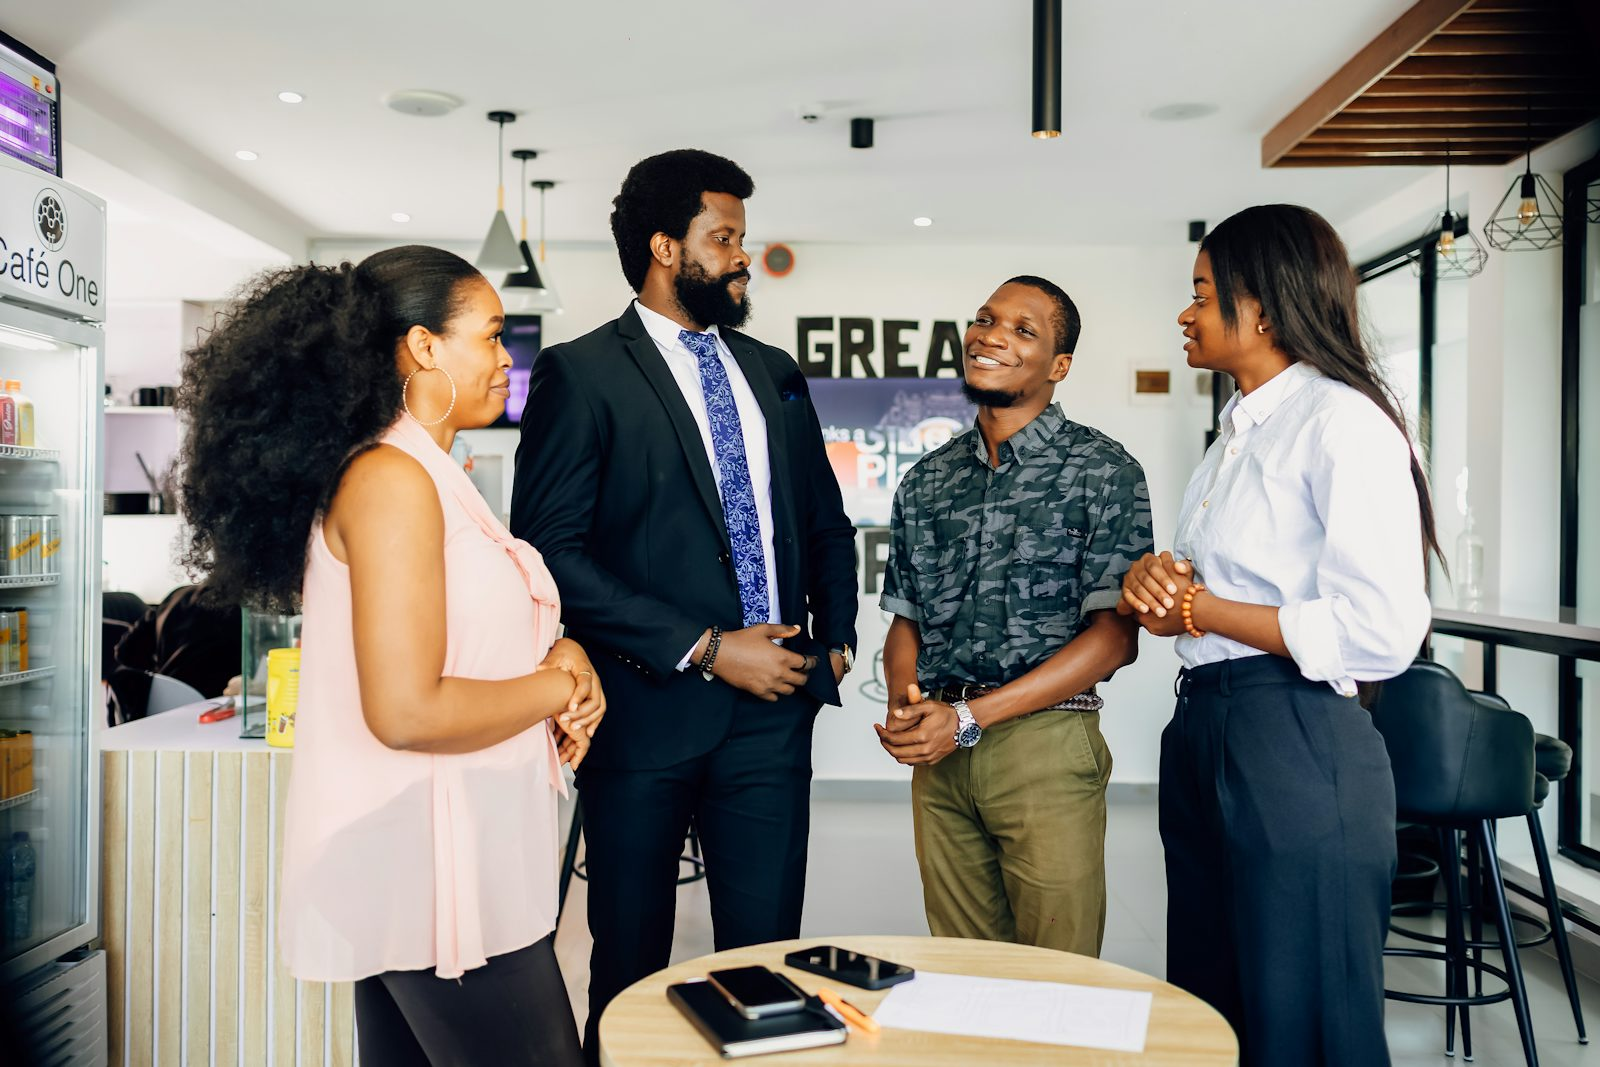
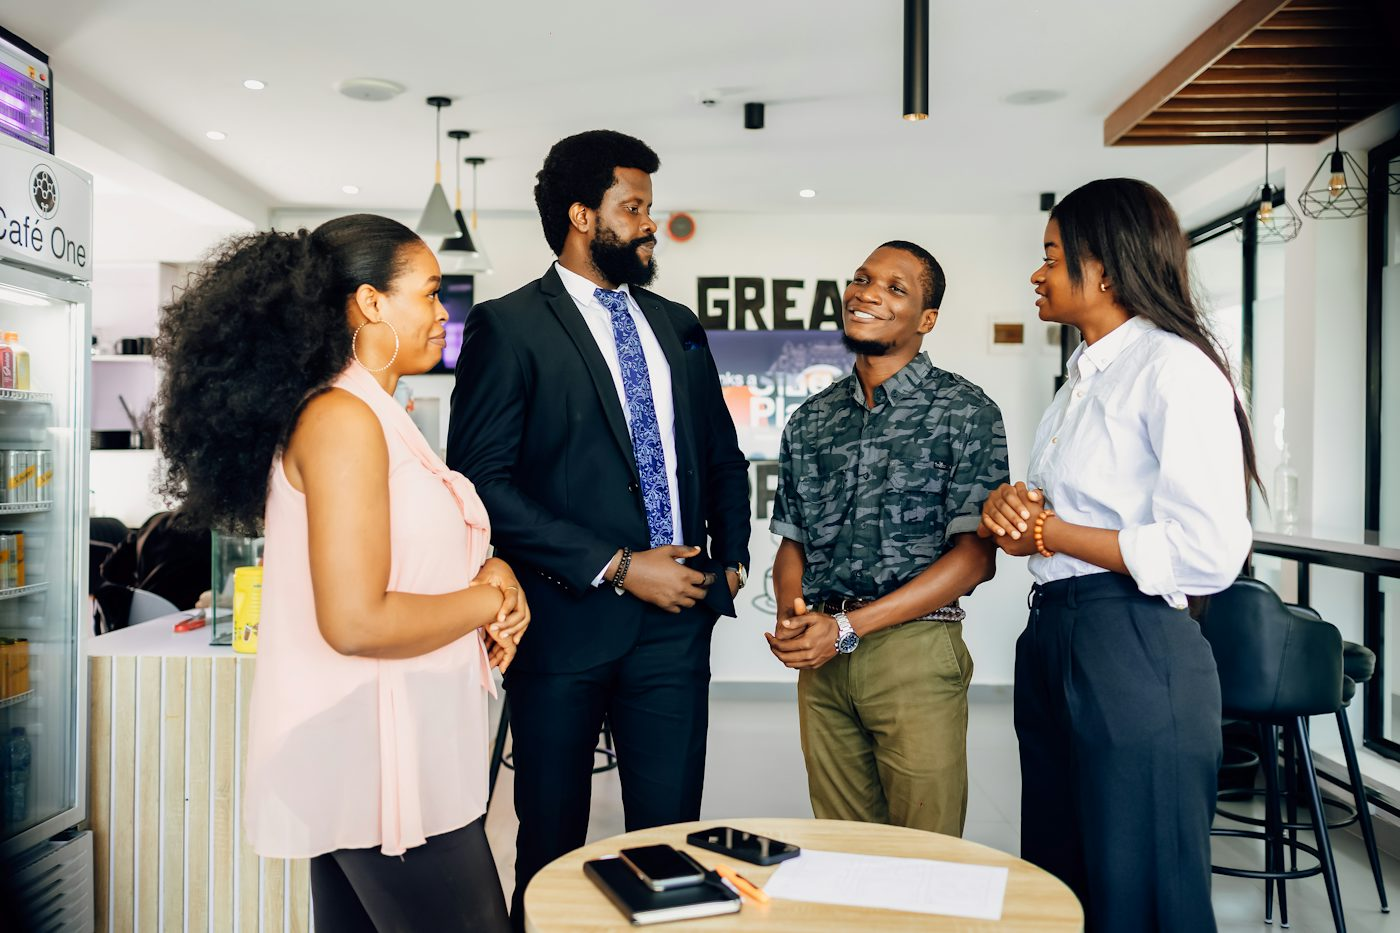
Shrink photos, fix crops, and vary placement per page
The first pass cropped landscape photos into extreme shapes (hero at 4:5
portrait, bands at 21:8) and ran the bands edge-to-edge. That showed only
a narrow slice of each photo blown up large, which read as stretched and
oversized. Every band also sat in the same spot on every page.

Crops now stay close to the source frame: 3:2 for the hero and all side
photos, 5:2 for bands. Almost no zoom, so composition survives.

Sizes: side photos take ~30% of the row (about 310px) instead of half the
width; bands are capped at 900px and sit inside the page margins rather
than spanning the viewport, which on a wide monitor is roughly a five-fold
reduction in area.

Placement now differs per page rather than repeating mid-page:
- Home     hero right (prominent), quote photo left, band, checklist right
- About    section 01 photo right, band after section 02
- Services band after section 01, section 03 photo left
- Contact  single band

Adds review-session.jpg and about-band.jpg (both verified Unsplash License,
not Unsplash+) to give each page a distinct arrangement. All files
re-exported at the smaller display sizes, trimming the photo payload from
1481 KB to 1253 KB; the homepage now loads 595 KB of images, nearly all of
it lazily.

diff --git a/styles.css b/styles.css
@@ -280,54 +280,50 @@ footer{padding-block:36px;}
 .foot-fine{font-family:var(--body); font-size:12px; color:var(--ink-faint); margin-top:18px;}
 
 /* ---------- Photography ----------
-   Every photo slot is sized by CSS (aspect-ratio + object-fit:cover), so a
-   replacement image can be any shape and will still crop to fit. Nudge a crop
-   with style="object-position: center 30%" on the individual <img>. */
+   Slots are sized by CSS (aspect-ratio + object-fit:cover), so a replacement
+   image can be any shape and still crops to fit. Ratios stay close to a normal
+   camera frame (3:2) so nothing is heavily zoomed. Nudge a crop with
+   style="object-position: center 30%" on the individual <img>. */
 .photo{
   width:100%;
   object-fit:cover;
+  border:1px solid var(--rule);
   border-radius:2px;
   background:var(--paper-raised);
 }
 
-/* Hero: copy beside a portrait photo, with an offset crimson frame */
-.hero-grid{display:grid; grid-template-columns:1fr; gap:38px; align-items:center;}
-@media (min-width:900px){ .hero-grid{grid-template-columns:1.05fr .95fr; gap:60px;} }
+/* Hero: photo beside the headline, natural landscape proportions */
+.hero-grid{display:grid; grid-template-columns:1fr; gap:34px; align-items:center;}
+@media (min-width:900px){ .hero-grid{grid-template-columns:1.1fr .9fr; gap:52px;} }
 .hero-figure{margin:0; position:relative; isolation:isolate;}
-.hero-figure .photo{
-  aspect-ratio:16/11; position:relative; z-index:1;
-  border:1px solid var(--rule);
-}
-@media (min-width:900px){ .hero-figure .photo{aspect-ratio:4/5;} }
+.hero-figure .photo{aspect-ratio:3/2; position:relative; z-index:1;}
 .hero-figure::after{
-  content:""; position:absolute; z-index:0; inset:14px -14px -14px 14px;
+  content:""; position:absolute; z-index:0; inset:12px -12px -12px 12px;
   border:1px solid var(--crimson); border-radius:2px;
 }
 
-/* Full-bleed photo band used as a section break */
-.band{margin:0; border-bottom:1px solid var(--rule);}
-.band .photo{aspect-ratio:16/9; border-radius:0;}
-@media (min-width:860px){ .band .photo{aspect-ratio:21/8;} }
+/* Small accent photo beside a block of copy (~30% of the row) */
+.split{display:grid; grid-template-columns:1fr; gap:26px; align-items:center;}
+.split .checklist{grid-template-columns:1fr;}
+.split-figure{margin:0;}
+.split-figure .photo{aspect-ratio:3/2;}
+@media (min-width:860px){
+  .split{grid-template-columns:2.2fr 1fr; gap:44px;}
+  .split--media-first{grid-template-columns:1fr 2.2fr;}
+  .split--media-first .split-figure{order:-1;}
+}
+
+/* One contained band per page, inset from the margins - never edge to edge */
+.band-section{padding-block:40px; border-bottom:1px solid var(--rule);}
+@media (min-width:860px){ .band-section{padding-block:56px;} }
+.band{margin:0; max-width:900px; margin-inline:auto;}
+.band .photo{aspect-ratio:5/2;}
 .band-note{
-  max-width:1120px; margin-inline:auto; padding:14px 20px 16px;
+  padding-top:12px;
   font-family:var(--body); font-size:12px; letter-spacing:.09em;
   text-transform:uppercase; color:var(--ink-faint);
 }
-@media (min-width:640px){ .band-note{padding-inline:40px;} }
 .band-note .note{margin-right:9px;}
-
-/* Contained variant, for sitting inside a .wrap */
-.band--inset{border-bottom:none;}
-.band--inset .photo{aspect-ratio:16/7; border:1px solid var(--rule); border-radius:2px;}
-.band--inset .band-note{padding-inline:0; max-width:none;}
-
-/* Photo beside a block of copy */
-.split{display:grid; grid-template-columns:1fr; gap:30px; align-items:center;}
-.split .checklist{grid-template-columns:1fr;}
-@media (min-width:860px){ .split{grid-template-columns:1fr 1fr; gap:52px;} }
-.split-figure{margin:0;}
-.split-figure .photo{aspect-ratio:4/3; border:1px solid var(--rule);}
-@media (min-width:860px){ .split--media-first .split-figure{order:-1;} }
 
 /* Founder portrait gets a soft crimson offset block */
 .founder-mark{box-shadow:12px 12px 0 0 rgba(188,31,62,.10);}

diff --git a/index.html b/index.html
@@ -68,9 +68,16 @@
 
   <section class="doc">
     <div class="wrap">
-      <blockquote class="pull">
-        "Growth outpaces process. Managers are promoted faster than they're developed. The systems that worked at 15 employees quietly stop working at 80."
-      </blockquote>
+      <div class="split split--media-first">
+        <blockquote class="pull">
+          "Growth outpaces process. Managers are promoted faster than they're developed. The systems that worked at 15 employees quietly stop working at 80."
+        </blockquote>
+        <figure class="split-figure">
+          <img class="photo" src="assets/review-session.jpg" width="700" height="467"
+               loading="lazy" decoding="async"
+               alt="Two colleagues reviewing notes together at a table by a window.">
+        </figure>
+      </div>
     </div>
   </section>
 
@@ -98,12 +105,16 @@
     </div>
   </section>
 
-  <figure class="band">
-    <img class="photo" src="assets/band-bright-office.jpg" width="1800" height="1200"
-         loading="lazy" decoding="async"
-         alt="A small team talking around a meeting table in a bright, window-lined office.">
-    <figcaption class="band-note"><span class="note">♪</span> Diagnose &middot; Recommend &middot; Implement</figcaption>
-  </figure>
+  <section class="band-section">
+    <div class="wrap">
+      <figure class="band">
+        <img class="photo" src="assets/band-bright-office.jpg" width="1300" height="867"
+             loading="lazy" decoding="async"
+             alt="A small team talking around a meeting table in a bright, window-lined office.">
+        <figcaption class="band-note"><span class="note">♪</span> Diagnose &middot; Recommend &middot; Implement</figcaption>
+      </figure>
+    </div>
+  </section>
 
   <section class="doc" id="services">
     <div class="wrap">
@@ -140,7 +151,7 @@
         <h2>Who We Work With</h2>
         <p class="doc-dek">Small to medium sized organizations, growing fast enough that HR can no longer live on the side of someone's desk.</p>
       </div>
-      <div class="split split--media-first">
+      <div class="split">
         <ul class="checklist">
           <li>Growing headcount, or preparing for a growth phase</li>
           <li>One overwhelmed HR generalist, or HR handled off the side of a desk</li>
@@ -150,7 +161,7 @@
           <li>Leadership transition, restructuring, or M&amp;A underway</li>
         </ul>
         <figure class="split-figure">
-          <img class="photo" src="assets/lunchroom-coffee-chat.jpg" width="1100" height="733"
+          <img class="photo" src="assets/lunchroom-coffee-chat.jpg" width="700" height="467"
                loading="lazy" decoding="async"
                alt="Three colleagues laughing over coffee in an office kitchen.">
         </figure>

diff --git a/about.html b/about.html
@@ -57,13 +57,6 @@
 
   <div class="staff" role="presentation"><span class="staff-mark">♪</span></div>
 
-  <figure class="band">
-    <img class="photo" src="assets/about-open-office.jpg" width="1600" height="1075"
-         loading="lazy" decoding="async"
-         alt="Two colleagues laughing together in a bright, open-plan office.">
-    <figcaption class="band-note"><span class="note">♪</span> Embedded, not transactional</figcaption>
-  </figure>
-
   <section class="doc" id="why">
     <div class="wrap">
       <div class="doc-head">
@@ -79,9 +72,16 @@
       <p class="doc-dek" style="grid-column:auto; max-width:64ch; font-size:16.5px; margin-top:16px;">
         <strong>Our Promise:</strong> We build the people systems, leadership capability, and cultural foundation that give organizations a genuine competitive advantage as they grow, without losing what makes them great in the first place: their people.
       </p>
-      <blockquote class="pull" style="margin-top:28px;">
-        "Optimizing the people foundation that allows your business to perform at its best."
-      </blockquote>
+      <div class="split" style="margin-top:28px;">
+        <blockquote class="pull">
+          "Optimizing the people foundation that allows your business to perform at its best."
+        </blockquote>
+        <figure class="split-figure">
+          <img class="photo" src="assets/about-open-office.jpg" width="700" height="470"
+               loading="lazy" decoding="async"
+               alt="Two colleagues laughing together in a bright, open-plan office.">
+        </figure>
+      </div>
     </div>
   </section>
 
@@ -102,6 +102,17 @@
       <blockquote class="pull" style="margin-top:32px;">
         "Bringing value through talent strategy, leadership capability, and organizational development. The people practice work that actually moves the business forward to build culture."
       </blockquote>
+    </div>
+  </section>
+
+  <section class="band-section">
+    <div class="wrap">
+      <figure class="band">
+        <img class="photo" src="assets/about-band.jpg" width="1300" height="867"
+             loading="lazy" decoding="async"
+             alt="Four colleagues talking around a table in a relaxed workspace.">
+        <figcaption class="band-note"><span class="note">♪</span> Embedded, not transactional</figcaption>
+      </figure>
     </div>
   </section>
 

diff --git a/services.html b/services.html
@@ -58,13 +58,6 @@
 
   <div class="staff" role="presentation"><span class="staff-mark">♪</span></div>
 
-  <figure class="band">
-    <img class="photo" src="assets/services-working-session.jpg" width="1600" height="1067"
-         loading="lazy" decoding="async"
-         alt="Colleagues gathered around a laptop in an easy, informal working session.">
-    <figcaption class="band-note"><span class="note">♪</span> Strategy through to hands-on execution</figcaption>
-  </figure>
-
   <section class="doc" id="approach">
     <div class="wrap">
       <div class="doc-head">
@@ -86,6 +79,17 @@
           <div class="dl-desc">The implementation phase involves partnering directly with leaders to embed people practices that not only work but stick.</div>
         </div>
       </div>
+    </div>
+  </section>
+
+  <section class="band-section">
+    <div class="wrap">
+      <figure class="band">
+        <img class="photo" src="assets/services-working-session.jpg" width="1300" height="867"
+             loading="lazy" decoding="async"
+             alt="Colleagues gathered around a laptop in an easy, informal working session.">
+        <figcaption class="band-note"><span class="note">♪</span> Strategy through to hands-on execution</figcaption>
+      </figure>
     </div>
   </section>
 
@@ -122,10 +126,10 @@
         <span class="doc-num">03</span>
         <h2>How Support Is Delivered</h2>
       </div>
-      <div class="split">
+      <div class="split split--media-first">
         <p class="doc-dek" style="grid-column:auto; max-width:52ch;">The work is delivered by a bench of vetted senior HR consultants and specialists with expertise in performance management, talent acquisition, leadership development, compensation, along with sector-specific expertise, brought in exactly when an engagement calls for it. You're never relying on a single generalist.</p>
         <figure class="split-figure">
-          <img class="photo" src="assets/coaching-conversation.jpg" width="1100" height="735"
+          <img class="photo" src="assets/coaching-conversation.jpg" width="700" height="468"
                loading="lazy" decoding="async"
                alt="Two people in a one-to-one advisory conversation beside a window.">
         </figure>

diff --git a/contact.html b/contact.html
@@ -84,8 +84,8 @@
         </div>
       </div>
 
-      <figure class="band band--inset" style="margin-top:46px;">
-        <img class="photo" src="assets/contact-conversation.jpg" width="1600" height="1067"
+      <figure class="band" style="margin-top:48px;">
+        <img class="photo" src="assets/contact-conversation.jpg" width="1300" height="867"
              loading="lazy" decoding="async"
              alt="Two people in conversation across a table beside a bright window.">
         <figcaption class="band-note"><span class="note">♪</span> Every engagement starts with a conversation</figcaption>

diff --git a/assets/IMAGE-CREDITS.md b/assets/IMAGE-CREDITS.md
@@ -1,34 +1,47 @@
 # Image credits
 
-All photos below come from Unsplash and are used under the
-[Unsplash License](https://unsplash.com/license): free for commercial and non-commercial use,
-no permission or attribution required. Each was checked to confirm it is **not** an Unsplash+
-(paid-tier) photo. Credits are recorded here as a courtesy and so any photo can be traced or swapped.
+All photos come from Unsplash under the [Unsplash License](https://unsplash.com/license):
+free for commercial and non-commercial use, no permission or attribution required. Each was
+individually checked to confirm it is **not** an Unsplash+ (paid-tier) photo.
 
 | File | Used for | Photographer | Source |
 |---|---|---|---|
-| `hero-team-meeting.jpg` | Homepage hero — four colleagues in warm, engaged conversation | LinkedIn Sales Solutions | [IjkIOe-2fF4](https://unsplash.com/photos/four-women-chatting-at-cafe-table-IjkIOe-2fF4) |
-| `band-bright-office.jpg` | Homepage full-bleed band — relaxed meeting, floor-to-ceiling windows | Elena Golubeva | [uFL-uZ_qDJw](https://unsplash.com/photos/a-diverse-group-of-people-in-a-modern-meeting-room-uFL-uZ_qDJw) |
-| `lunchroom-coffee-chat.jpg` | Homepage 'Who We Work With' — coffee break chat in the office kitchen | Maurice Sardison | [TTvedfJt08U](https://unsplash.com/photos/three-people-drinking-tea-in-kitchen-TTvedfJt08U) |
-| `cta-backdrop.jpg` | CTA band background, darkened — all pages | Ninthgrid | [wCfWNod54JU](https://unsplash.com/photos/a-group-of-people-standing-around-a-table-wCfWNod54JU) |
-| `services-working-session.jpg` | Services page band — working session, easy smiles | Creatopy | [sgIgF8xKY8o](https://unsplash.com/photos/a-group-of-people-sitting-around-a-laptop-computer-sgIgF8xKY8o) |
-| `coaching-conversation.jpg` | Services 'Coaching & L&D' — one-to-one advisory conversation | Centre for Ageing Better | [K8uzzu6wBKc](https://unsplash.com/photos/woman-talking-to-person-across-table-K8uzzu6wBKc) |
-| `about-open-office.jpg` | About page band — two colleagues laughing in a bright open office | AllGo - An App For Plus Size People | [--tCTIja3_4](https://unsplash.com/photos/two-smiling-woman-inside-room---tCTIja3_4) |
-| `contact-conversation.jpg` | Contact page — two people mid-conversation by a window | The Jopwell Collection | [GB4ScXwxNGI](https://unsplash.com/photos/a-woman-sitting-at-a-table-talking-to-another-woman-GB4ScXwxNGI) |
+| `hero-team-meeting.jpg` | Homepage hero, beside the headline (displays ~480px) | LinkedIn Sales Solutions | [IjkIOe-2fF4](https://unsplash.com/photos/four-women-chatting-at-cafe-table-IjkIOe-2fF4) |
+| `review-session.jpg` | Homepage pull-quote, small accent left (displays ~310px) | Christina @ wocintechchat.com M | [4PU-OC8sW98](https://unsplash.com/photos/two-women-taking-to-each-other-while-holding-pens-4PU-OC8sW98) |
+| `band-bright-office.jpg` | Homepage contained band (displays ~900px) | Elena Golubeva | [uFL-uZ_qDJw](https://unsplash.com/photos/a-diverse-group-of-people-in-a-modern-meeting-room-uFL-uZ_qDJw) |
+| `lunchroom-coffee-chat.jpg` | Homepage 'Who We Work With', small accent right | Maurice Sardison | [TTvedfJt08U](https://unsplash.com/photos/three-people-drinking-tea-in-kitchen-TTvedfJt08U) |
+| `about-open-office.jpg` | About 'Why Orchestral', small accent right | AllGo - An App For Plus Size People | [--tCTIja3_4](https://unsplash.com/photos/two-smiling-woman-inside-room---tCTIja3_4) |
+| `about-band.jpg` | About contained band | Derek Coleman | [jIKxRCInAFA](https://unsplash.com/photos/a-group-of-people-sitting-around-a-table-jIKxRCInAFA) |
+| `services-working-session.jpg` | Services contained band | Creatopy | [sgIgF8xKY8o](https://unsplash.com/photos/a-group-of-people-sitting-around-a-laptop-computer-sgIgF8xKY8o) |
+| `coaching-conversation.jpg` | Services 'How Support Is Delivered', small accent left | Centre for Ageing Better | [K8uzzu6wBKc](https://unsplash.com/photos/woman-talking-to-person-across-table-K8uzzu6wBKc) |
+| `contact-conversation.jpg` | Contact contained band | The Jopwell Collection | [GB4ScXwxNGI](https://unsplash.com/photos/a-woman-sitting-at-a-table-talking-to-another-woman-GB4ScXwxNGI) |
+| `cta-backdrop.jpg` | CTA band background, darkened (all pages) | Ninthgrid | [wCfWNod54JU](https://unsplash.com/photos/a-group-of-people-standing-around-a-table-wCfWNod54JU) |
+
+## How the layout works
+
+Three photo sizes, all set in `styles.css`:
+
+| Class | Where | Size on screen |
+|---|---|---|
+| `.hero-figure` | Homepage headline | ~480px wide, 3:2 |
+| `.split-figure` | Beside a block of copy | ~30% of the row, 3:2 |
+| `.band` | One per page, centred | max 900px wide, 5:2 |
+
+Side photos alternate: add `split--media-first` to the `.split` div to move the photo to the
+left, or leave it off for the right. Bands are capped at 900px and never run edge-to-edge.
 
 ## Swapping in your own photos
 
-Every slot is sized by CSS (`aspect-ratio` + `object-fit:cover`), so a replacement can be any
-size or shape and will still crop to fit. Drop the new file into `assets/` using the same
-filename and nothing else needs to change.
+Every slot uses `aspect-ratio` + `object-fit:cover`, so a replacement can be any size or shape
+and will crop to fit. Drop the new file into `assets/` with the same filename; nothing else
+needs to change.
 
-If the crop cuts off the wrong part of the frame, add `object-position` to that one `<img>`:
+If a crop cuts off the wrong part of the frame, add `object-position` to that one `<img>`:
 
 ```html
 <img class="photo" src="assets/hero-team-meeting.jpg" style="object-position: center 30%" ...>
 ```
 
-Suggested exports: JPEG, ~1600px wide for the full-width bands, ~1100px for the side-by-side
-images, quality 70-75. Keep each file under roughly 250 KB.
-
-The CTA band photo is set in `styles.css` (`.cta-band::before`), not in the HTML.
+Suggested exports: ~1300px wide for bands, ~1000px for the hero, ~700px for the small side
+photos, JPEG quality 70-76. The CTA background is set in `styles.css` (`.cta-band::before`),
+not in the HTML.
